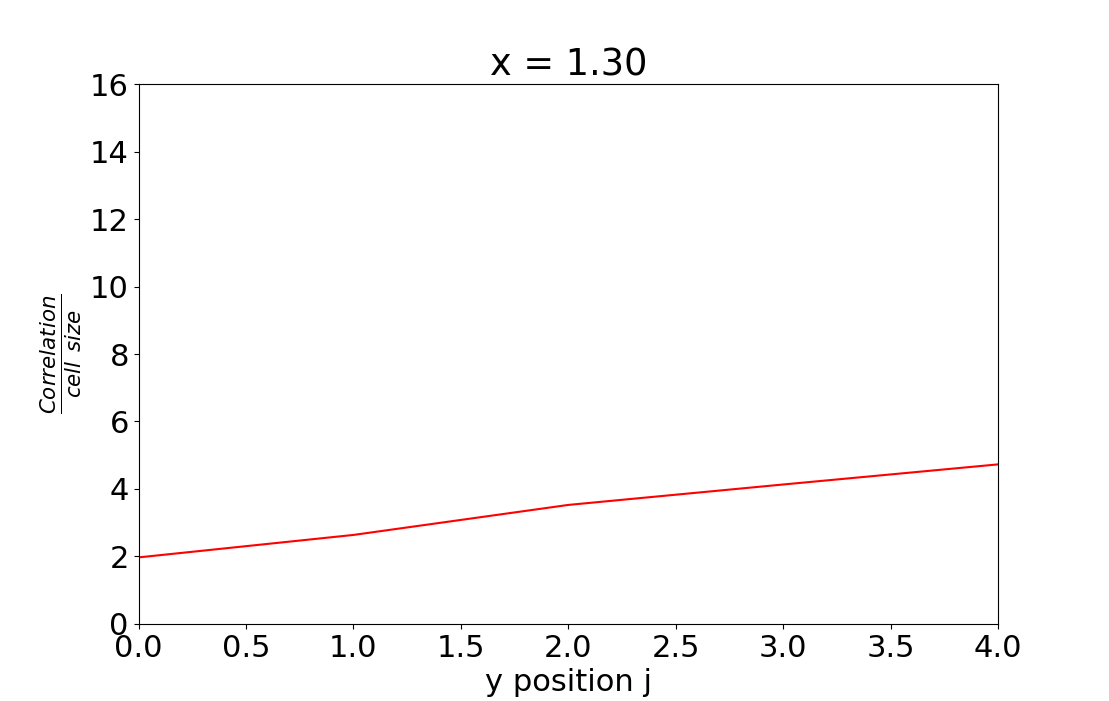
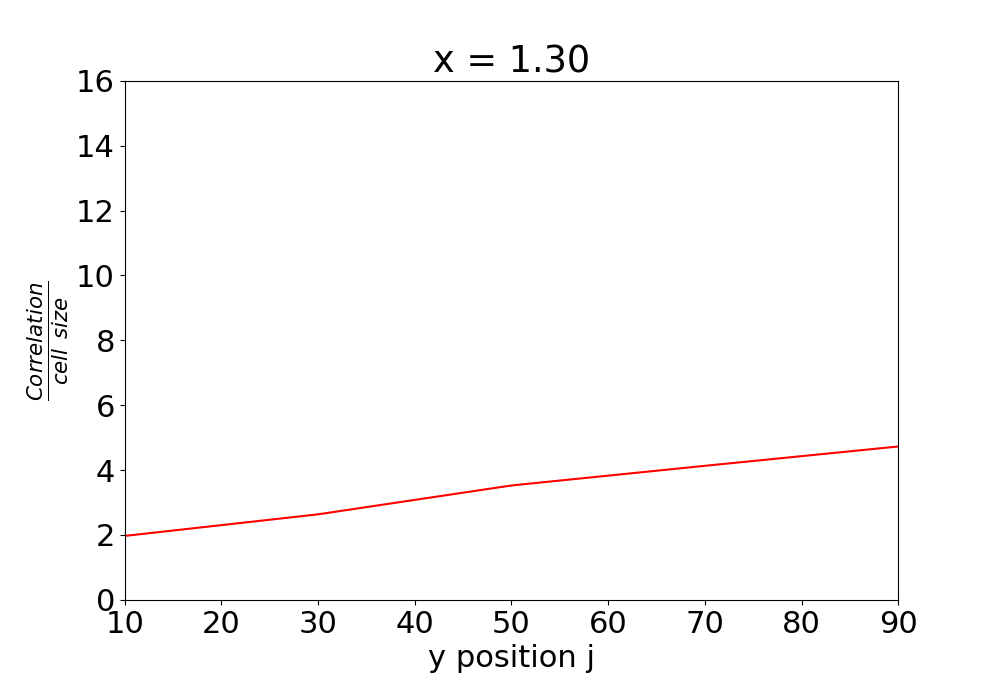
last fix

diff --git a/Assignment 2b/pl_twocorr_computed_fk.py b/Assignment 2b/pl_twocorr_computed_fk.py
@@ -212,7 +212,7 @@ dy = np.diff(y_2d, axis = 1)
 
 dy = np.insert(dy,0, dy[:,-1], axis = 1)
 
-y_pos = np.array([0, 1 ,2 ,3, 4])
+y_pos = np.array([10, 30 ,50 ,70, 90])
 
 
 def b33_065():
@@ -277,7 +277,7 @@ def resolution_plot_065():
     plt.plot(y_pos, resolution_number[0], 'r-')
     plt.xlabel("y position j")
     plt.ylabel("$\\frac{Correlation}{cell \\:\\: size}$")
-    plt.axis([0,4,0,16])
+    plt.axis([10,90,0,16])
     plt.title("x = 0.65")
 
 def resolution_plot_080():
@@ -286,7 +286,7 @@ def resolution_plot_080():
     plt.plot(y_pos, resolution_number[1], 'r-')
     plt.xlabel("y position j")
     plt.ylabel("$\\frac{Correlation}{cell \\:\\: size}$")
-    plt.axis([0,4,0,16])
+    plt.axis([10,90,0,16])
     plt.title("x = 0.80")
 
 def resolution_plot_110():
@@ -295,7 +295,7 @@ def resolution_plot_110():
     plt.plot(y_pos, resolution_number[2], 'r-')
     plt.xlabel("y position j")
     plt.ylabel("$\\frac{Correlation}{cell \\:\\: size}$")
-    plt.axis([0,4,0,16])
+    plt.axis([10,90,0,16])
     plt.title("x = 1.10")
 
 def resolution_plot_130():
@@ -304,7 +304,7 @@ def resolution_plot_130():
     plt.plot(y_pos, resolution_number[3], 'r-')
     plt.xlabel("y position j")
     plt.ylabel("$\\frac{Correlation}{cell \\:\\: size}$")
-    plt.axis([0,4,0,16])
+    plt.axis([10,90,0,16])
     plt.title("x = 1.30")
 
 def close_fig():
